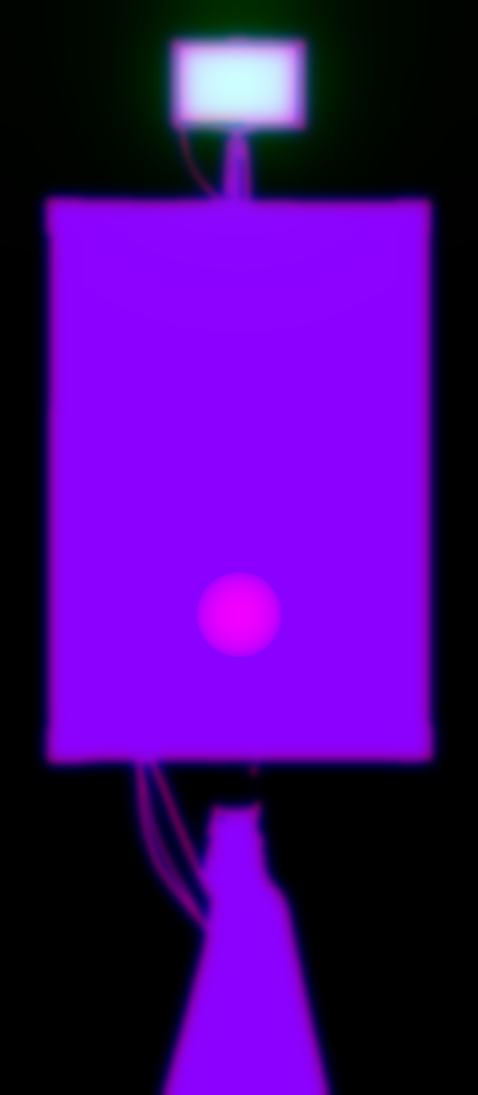
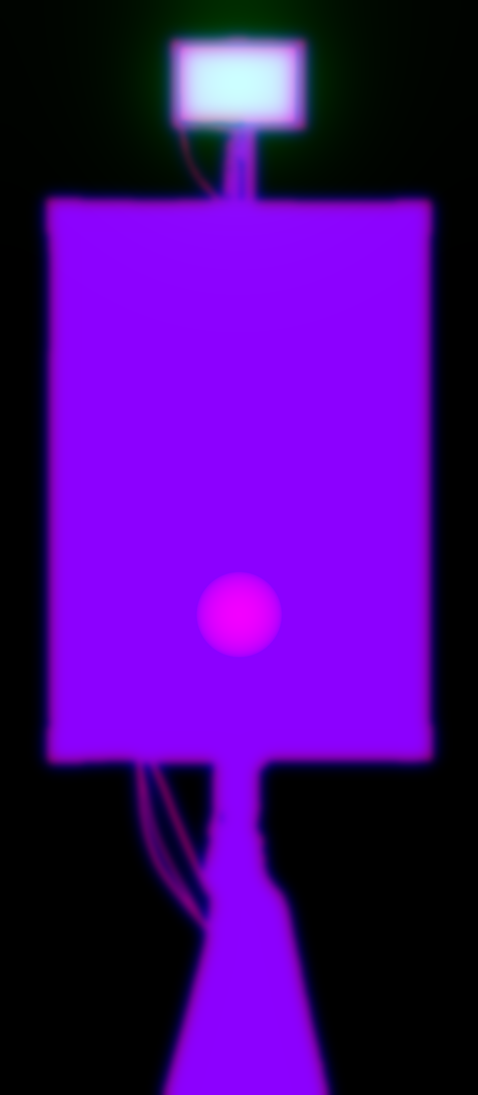
Hero: Luecke unter der Box und doppelter Stiel behoben
Luecke: Der Anschluss unter dem Kasten fehlte im Freisteller (6,5 %). Die
festen GrabCut-Vorgaben liefen ueber Komponenten-Nummern aus einer Analyse
mit anderer Helligkeitsformel (PIL statt OpenCV) und zeigten auf falsche
Flecken. Jetzt ueber Koordinaten, Anschluss zu 99,5 % enthalten. Fast
schwarze Teile werden leicht angehoben, damit sie nicht in der Buehne
verschwinden.

Doppelter Stiel: Die versetzte hintere Ebene fuer die Seitenwaende galt fuer
das ganze Bild, Stoff und Kabel bekamen eine verschobene Kopie. Seitenwaende
jetzt nur innerhalb des Kastenrechtecks.

Dazu: Referenzen vor dem await sichern. Wird die Komponente waehrend des
Nachladens von three.js entfernt, gab es einen null-Zugriff.

Changed region(s): [[0.3222, 0.6831, 0.5858, 0.7452], [0.4979, 0.0932, 0.5565, 0.1863]]

diff --git a/app/lib/fotobox-hero/glsl.ts b/app/lib/fotobox-hero/glsl.ts
@@ -208,6 +208,7 @@ uniform vec4 uImgRect;       // Bild: x, y (unten links), Breite, Hoehe in Gerae
 uniform vec2 uBoxCenter;     // Kastenmitte im Bild (uv, y von unten): Drehpunkt
 uniform vec2 uTilt;          // Drehung in Radiant: x = um die Hochachse, y = Nicken
 uniform float uDepth;        // Kastentiefe in Geraetepixeln
+uniform vec4 uBoxRect;       // Kasten im Bild (uv, y von unten): x0, y0, x1, y1
 uniform vec2 uPointer;       // geglaettete Mausposition, -1..1
 uniform vec2 uFlashAt;       // Blitzquelle (Objektiv) im Bild (uv, y von unten)
 uniform float uTime;
@@ -351,7 +352,10 @@ void main() {
   // Seitenwand: was die hintere Ebene zeigt, die vordere aber nicht.
   vec2 buv = planeUv(s, R, uDepth, f);
   vec4 back = inRect(buv) ? texture(tBase, buv) : vec4(0.0);
-  float side = back.a * (1.0 - base.a);
+  // Nur der Kasten ist ein Koerper mit Tiefe. Fuer duenne Teile wie Stoff und
+  // Kabel wuerde die hintere Ebene eine verschobene Doppelung zeigen.
+  bool inBox = all(greaterThanEqual(buv, uBoxRect.xy)) && all(lessThanEqual(buv, uBoxRect.zw));
+  float side = inBox ? back.a * (1.0 - base.a) : 0.0;
 
   // Licht: Normale aus der Hoehenkarte, mit der Box mitgedreht.
   vec2 mt = 1.0 / vec2(textureSize(tMaps, 0));
@@ -368,6 +372,10 @@ void main() {
   // Kantenlicht: Flanken, die zum Cursor zeigen, fangen Licht.
   float rim = pow(1.0 - clamp(N.z, 0.0, 1.0), 1.5) * clamp(dot(normalize(N.xy + 1e-5), normalize(uPointer + vec2(1e-5, 0.4))), 0.0, 1.0);
   vec3 lit = base.rgb * (0.78 + 0.3 * diff) + spec * 0.2 + rim * vec3(0.55, 0.5, 0.42) * 0.8;
+  // Fast schwarze Teile (Anschluss, Kabel) leicht anheben, sonst verschwinden
+  // sie vor der dunklen Buehne und es sieht aus wie eine Luecke.
+  float litLum = dot(lit, vec3(0.2126, 0.7152, 0.0722));
+  lit += vec3(0.07, 0.065, 0.06) * (1.0 - smoothstep(0.0, 0.22, litLum));
 
   float sideLight = 0.3 + 0.35 * clamp(dot(normalize(vec2(-uTilt.x, uTilt.y) + 1e-5), normalize(uPointer + 1e-5)), 0.0, 1.0);
   vec3 sideCol = back.rgb * sideLight;

diff --git a/app/components/home/FotoboxHero.vue b/app/components/home/FotoboxHero.vue
@@ -13,6 +13,8 @@ const MAPS = '/images/hero/fotobox-maps.png'
 const FLASH_AT: [number, number] = [0.5, 0.0772]      // LED-Licht auf dem Kasten
 const BOX_CENTER: [number, number] = [0.5009, 0.4394]  // Kastenmitte ohne Licht und Stativ
 const BOX_HEIGHT = 0.5159
+/** Nur der Kasten bekommt Seitenwaende, nicht Licht, Kabel oder Stoff: x0, y0, x1, y1. */
+const BOX_RECT: [number, number, number, number] = [0.0966, 0.1815, 0.9052, 0.6974]
 /**
  * Szene, die der Pinsel hinter der Box freilegt. Leer = dunkle Buehne bleibt.
  * Foto: brunounreal, Pexels (pexels.com/photo/36499158), Pexels-Lizenz.
@@ -28,15 +30,22 @@ let io: IntersectionObserver | null = null
 let unmounted = false
 
 onMounted(async () => {
+  // Referenzen VOR dem await sichern: waehrend three.js laedt, kann die
+  // Komponente schon wieder weg sein (Seitenwechsel, Hot-Reload).
+  const canvasEl = canvas.value
+  const rootEl = root.value
+  if (!canvasEl || !rootEl) return
   try {
     const { createFotoboxHero } = await import('~/lib/fotobox-hero/hero')
+    if (unmounted) return
     const tokens = getComputedStyle(document.documentElement)
-    const created = await createFotoboxHero(canvas.value!, root.value!, {
+    const created = await createFotoboxHero(canvasEl, rootEl, {
       image: IMAGE,
       maps: MAPS,
       flashAt: FLASH_AT,
       boxCenter: BOX_CENTER,
       boxHeight: BOX_HEIGHT,
+      boxRect: BOX_RECT,
       party: PARTY || undefined,
       reducedMotion: matchMedia('(prefers-reduced-motion: reduce)').matches,
       colors: {
@@ -54,7 +63,7 @@ onMounted(async () => {
 
     // Ausserhalb des Sichtfelds nichts rechnen: spart Akku.
     io = new IntersectionObserver(([entry]) => hero?.setVisible(!!entry?.isIntersecting))
-    io.observe(root.value!)
+    io.observe(rootEl)
   }
   catch (err) {
     console.warn('[FotoboxHero] WebGL nicht verfuegbar, statisches Bild bleibt.', err)

diff --git a/app/lib/fotobox-hero/hero.ts b/app/lib/fotobox-hero/hero.ts
@@ -14,6 +14,8 @@ export interface FotoboxHeroOptions {
   boxCenter: [number, number]
   /** Hoehe des Kastens relativ zur Bildhoehe. Daraus folgt die Kastentiefe. */
   boxHeight: number
+  /** Kastenrechteck relativ im Bild (x0, y0, x1, y1, y von oben). Nur dort gibt es Seitenwaende. */
+  boxRect: [number, number, number, number]
   /** Optional: Szene, die der Pinsel hinter der Box freilegt (z. B. eine Party). */
   party?: string
   reducedMotion: boolean
@@ -104,6 +106,7 @@ export async function createFotoboxHero(
       uImgRect: { value: new Vector4() },
       uBoxCenter: { value: new Vector2(opts.boxCenter[0], 1 - opts.boxCenter[1]) },
       uTilt: { value: new Vector2() },
+      uBoxRect: { value: new Vector4(opts.boxRect[0], 1 - opts.boxRect[3], opts.boxRect[2], 1 - opts.boxRect[1]) },
       uDepth: { value: 0 },
       uPointer: { value: new Vector2() },
       uFlashAt: { value: new Vector2(opts.flashAt[0], 1 - opts.flashAt[1]) },
